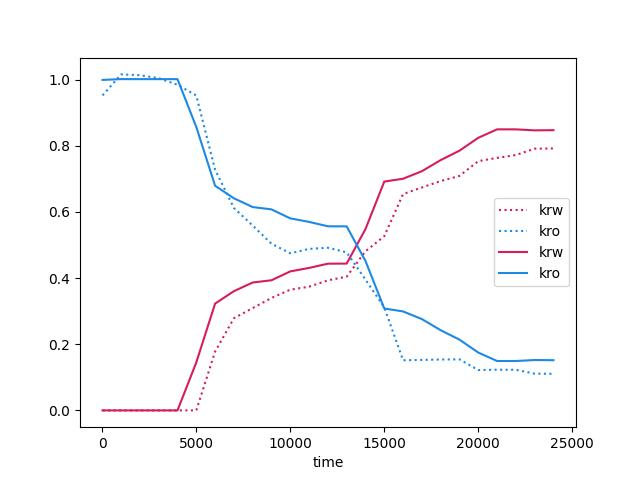
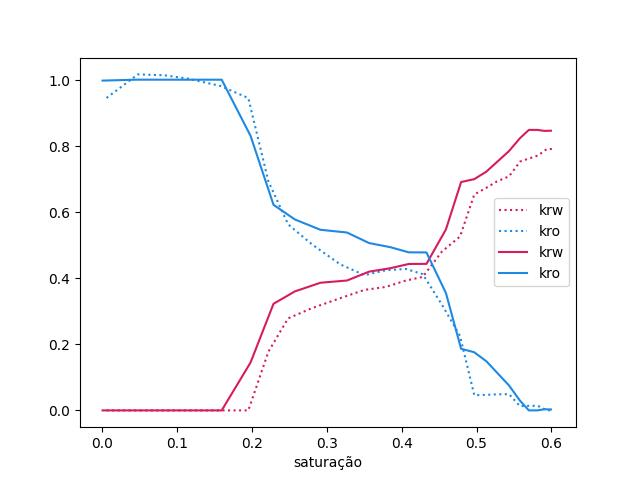
delete examples folder

diff --git a/cases/5x5/mlp/eval_plot.py b/cases/5x5/mlp/eval_plot.py
@@ -76,42 +76,59 @@ curves_fem  = get_curves(u_fem       , s_fem       , vertices, map_elements_vert
 #curves = out_flow_ratio_w, out_flow_ratio_o, krw, kro, in_flow_ratio, sat_curve
 colors = ['#D81B60', '#1E88E5', '#FFC107', '#004D40']
 
-plt.figure()
-sns.lineplot(x= t_coords*tmax, y= curves_data[5], color=colors[0], linestyle=':', label="saturation", )
-sns.lineplot(x= t_coords*tmax, y= curves_fem[5], color=colors[0], linestyle='-', label="saturation", )
-plt.legend(loc="best")
-plt.xlabel("time")
-plt.savefig('saturation.jpg', format='jpg')
+# plt.figure()
+# sns.lineplot(x= t_coords*tmax, y= curves_data[5], color=colors[0], linestyle=':', label="saturation", )
+# sns.lineplot(x= t_coords*tmax, y= curves_fem[5], color=colors[0], linestyle='-', label="saturation", )
+# plt.legend(loc="best")
+# plt.xlabel("time")
+# plt.savefig('saturation.jpg', format='jpg')
+
+# plt.figure()
+# sns.lineplot(x= t_coords*tmax, y= curves_data[0], color=colors[1], linestyle=':', label="Vw_out(t)", )
+# sns.lineplot(x= t_coords*tmax, y= curves_data[1], color=colors[2], linestyle=':', label="Vo_out(t)", )
+# sns.lineplot(x= t_coords*tmax, y= curves_data[4], color=colors[3], linestyle=':', label="Vw_in(t)", )
+
+# # sns.lineplot(x= t_coords*tmax, y= curves_pinn[5], color=colors[0], linestyle='--', label="saturation", )
+# # sns.lineplot(x= t_coords*tmax, y= curves_pinn[0], color=colors[1], linestyle='--', label="Vw_out(t)", )
+# # sns.lineplot(x= t_coords*tmax, y= curves_pinn[1], color=colors[2], linestyle='--', label="Vo_out(t)", )
+# # sns.lineplot(x= t_coords*tmax, y= curves_pinn[4], color=colors[3], linestyle='--', label="Vw_in(t)", )
+
+
+# sns.lineplot(x= t_coords*tmax, y= curves_fem[0], color=colors[1], linestyle='-', label="Vw_out(t)", )
+# sns.lineplot(x= t_coords*tmax, y= curves_fem[1], color=colors[2], linestyle='-', label="Vo_out(t)", )
+# sns.lineplot(x= t_coords*tmax, y= curves_fem[4], color=colors[3], linestyle='-', label="Vw_in(t)", )
+
+# plt.legend(loc="best")
+# plt.xlabel("time")
+# plt.savefig('curves.jpg', format='jpg')
+
+# plt.figure()
+# sns.lineplot(x= t_coords*tmax, y= curves_data[2], color=colors[0], linestyle=':', label="krw")
+# sns.lineplot(x= t_coords*tmax, y= curves_data[3], color=colors[1], linestyle=':', label="kro")
+
+# # sns.lineplot(x= t_coords*tmax, y= curves_pinn[2], color=colors[0], linestyle='--', label="krw")
+# # sns.lineplot(x= t_coords*tmax, y= curves_pinn[3], color=colors[1], linestyle='--', label="kro")
+
+# sns.lineplot(x= t_coords*tmax, y= curves_fem[2], color=colors[0], linestyle='-', label="krw")
+# sns.lineplot(x= t_coords*tmax, y= curves_fem[3], color=colors[1], linestyle='-', label="kro")
+
+# plt.legend(loc="best")
+# plt.xlabel("time")
+# plt.savefig('k_curves.jpg', format='jpg')
 
 plt.figure()
-sns.lineplot(x= t_coords*tmax, y= curves_data[0], color=colors[1], linestyle=':', label="Vw_out(t)", )
-sns.lineplot(x= t_coords*tmax, y= curves_data[1], color=colors[2], linestyle=':', label="Vo_out(t)", )
-sns.lineplot(x= t_coords*tmax, y= curves_data[4], color=colors[3], linestyle=':', label="Vw_in(t)", )
 
-# sns.lineplot(x= t_coords*tmax, y= curves_pinn[5], color=colors[0], linestyle='--', label="saturation", )
-# sns.lineplot(x= t_coords*tmax, y= curves_pinn[0], color=colors[1], linestyle='--', label="Vw_out(t)", )
-# sns.lineplot(x= t_coords*tmax, y= curves_pinn[1], color=colors[2], linestyle='--', label="Vo_out(t)", )
-# sns.lineplot(x= t_coords*tmax, y= curves_pinn[4], color=colors[3], linestyle='--', label="Vw_in(t)", )
+def reescale(y):
+    min_y = jnp.min(y)
+    return (y-min_y)/(1-min_y)
+
+sns.lineplot(x= curves_data[5], y= curves_data[2], color=colors[0], linestyle=':', label="krw")
+sns.lineplot(x= curves_data[5], y= reescale(curves_data[3]), color=colors[1], linestyle=':', label="kro")
 
 
-sns.lineplot(x= t_coords*tmax, y= curves_fem[0], color=colors[1], linestyle='-', label="Vw_out(t)", )
-sns.lineplot(x= t_coords*tmax, y= curves_fem[1], color=colors[2], linestyle='-', label="Vo_out(t)", )
-sns.lineplot(x= t_coords*tmax, y= curves_fem[4], color=colors[3], linestyle='-', label="Vw_in(t)", )
+sns.lineplot(x= curves_fem[5], y= curves_fem[2], color=colors[0], linestyle='-', label="krw")
+sns.lineplot(x= curves_fem[5], y= reescale(curves_fem[3]), color=colors[1], linestyle='-', label="kro")
 
 plt.legend(loc="best")
-plt.xlabel("time")
-plt.savefig('curves.jpg', format='jpg')
-
-plt.figure()
-sns.lineplot(x= t_coords*tmax, y= curves_data[2], color=colors[0], linestyle=':', label="krw")
-sns.lineplot(x= t_coords*tmax, y= curves_data[3], color=colors[1], linestyle=':', label="kro")
-
-# sns.lineplot(x= t_coords*tmax, y= curves_pinn[2], color=colors[0], linestyle='--', label="krw")
-# sns.lineplot(x= t_coords*tmax, y= curves_pinn[3], color=colors[1], linestyle='--', label="kro")
-
-sns.lineplot(x= t_coords*tmax, y= curves_fem[2], color=colors[0], linestyle='-', label="krw")
-sns.lineplot(x= t_coords*tmax, y= curves_fem[3], color=colors[1], linestyle='-', label="kro")
-
-plt.legend(loc="best")
-plt.xlabel("time")
+plt.xlabel("saturação")
 plt.savefig('k_curves.jpg', format='jpg')

diff --git a/cases/5x5/delta-mlp/models.py b/cases/5x5/delta-mlp/models.py
@@ -72,22 +72,26 @@ class NavierStokes2DwSat(ForwardIVP):
         p = outputs[2]
         s = outputs[3] # nn.softplus( outputs[3] )
         
-        return u, v, p, s
+        a = outputs[4]
+        b = outputs[5]
+        c = outputs[6]
+        
+        return u, v, p, s, a, b, c
 
     def u_net(self, params, t, X, mu):
-        u, _, _, _ = self.neural_net(params, t, X, mu)
+        u, _, _, _, _, _, _ = self.neural_net(params, t, X, mu)
         return u
 
     def v_net(self, params, t, X, mu):
-        _, v, _, _ = self.neural_net(params, t, X, mu)
+        _, v, _, _, _, _, _ = self.neural_net(params, t, X, mu)
         return v
 
     def p_net(self, params, t, X, mu):
-        _, _, p, _ = self.neural_net(params, t, X, mu)
+        _, _, p, _, _, _, _ = self.neural_net(params, t, X, mu)
         return p
 
     def s_net(self, params, t, X, mu):
-        _, _, _, s = self.neural_net(params, t, X, mu)
+        _, _, _, s, _, _, _ = self.neural_net(params, t, X, mu)
         return s
     
 
@@ -99,12 +103,10 @@ class NavierStokes2DwSat(ForwardIVP):
         
         def denormalize_mustd(u, umean, ustd):
             return u*ustd+umean
-        
-        # Minv = invert(M)
                
-        u1 , v1 , p1, s1 = self.neural_net(params, t, jnp.squeeze(jnp.take(eigenvecs_element, jnp.array([0]), axis=0)) , mu0)
-        u2 , v2 , p2, s2 = self.neural_net(params, t, jnp.squeeze(jnp.take(eigenvecs_element, jnp.array([1]), axis=0)) , mu0)
-        u3 , v3 , p3, s3 = self.neural_net(params, t, jnp.squeeze(jnp.take(eigenvecs_element, jnp.array([2]), axis=0)) , mu0)
+        u1 , v1 , p1, s1, a, b, c = self.neural_net(params, t, jnp.squeeze(jnp.take(eigenvecs_element, jnp.array([0]), axis=0)) , mu0)
+        u2 , v2 , p2, s2, _, _, _ = self.neural_net(params, t, jnp.squeeze(jnp.take(eigenvecs_element, jnp.array([1]), axis=0)) , mu0)
+        u3 , v3 , p3, s3, _, _, _ = self.neural_net(params, t, jnp.squeeze(jnp.take(eigenvecs_element, jnp.array([2]), axis=0)) , mu0)
     
         u1 = denormalize_mustd(u1, u_mean, u_std)
         v1 = denormalize_mustd(v1, v_mean, v_std)
@@ -154,26 +156,24 @@ class NavierStokes2DwSat(ForwardIVP):
         v_xx = Minv @ A @ v_e
         s_xx = Minv @ A @ s_e
 
-        u_yy = u_xx[2][0] *(self.L_max**2) ; u_xy = u_xx[1][0] *(self.L_max**2) ; u_xx = u_xx[0][0] *(self.L_max**2) 
-        v_yy = v_xx[2][0] *(self.L_max**2) 
-        # v_xy = v_xx[1][0] *(self.L_max**2) ; 
-        v_xx = v_xx[0][0] *(self.L_max**2) 
+        u_yy = u_xx[2][0] *(self.L_max**2) ; u_xx = u_xx[0][0] *(self.L_max**2) 
+        v_yy = v_xx[2][0] *(self.L_max**2) ; v_xx = v_xx[0][0] *(self.L_max**2) 
         # s_yy = s_xx[2][0] *(self.L_max**2) ; s_xx = s_xx[0][0] *(self.L_max**2) 
 
         Re = rho0*self.U_max*(self.L_max)/mu1 
         mu = (1-s)*mu1 + s*mu0
-        mu_ratio = mu/mu1
-        # mu_s = mu0-mu1
-        # mu_x = mu_s * s_x
-        # mu_y = mu_s * s_y
+        # mu_ratio = mu/mu1
+        mu_s = mu0-mu1
+        mu_x = mu_s * s_x
+        mu_y = mu_s * s_y
                 
         # PDE residual
         # ru = u_t + u * u_x + v * u_y + (p_x - mu_ratio*(u_xx + u_yy)) / Re #  
         # rv = v_t + u * v_x + v * v_y + (p_y - mu_ratio*(v_xx + v_yy)) / Re #
-        ru = (p_x - mu_ratio*(u_xx + u_yy)) / Re #  
-        rv = (p_y - mu_ratio*(v_xx + v_yy)) / Re #
-        # ru = (-p_x + 2*mu_x/mu1*u_x + 2*mu/mu1*u_xx + mu_y/mu1*(u_y+v_x) + mu/mu1*(u_yy+v_xy)) / Re
-        # rv = (-p_y + 2*mu_y/mu1*v_y + 2*mu/mu1*v_yy + mu_x/mu1*(u_y+v_x) + mu/mu1*(u_xy+v_yy)) / Re
+        # ru = (p_x - (a*mu_ratio+b*mu_x/mu1+c*mu_y/mu1)*(u_xx + u_yy)) / Re #  
+        # rv = (p_y - mu_ratio*(v_xx + v_yy)) / Re #
+        ru = (-p_x + 2*a*mu_x/mu1*u_x + b*mu_y/mu1*(u_y+v_x) + c*mu/mu1*(u_yy+u_xx)) / Re
+        rv = (-p_y + 2*a*mu_y/mu1*v_y + b*mu_x/mu1*(u_y+v_x) + c*mu/mu1*(v_xx+v_yy)) / Re
         rc = u_x + v_y
         rs = s_t + u * s_x + v * s_y # - 0*beta*10**(-4)*(s_xx + s_yy)
         

diff --git a/cases/5x5/delta-don/models.py b/cases/5x5/delta-don/models.py
@@ -70,23 +70,27 @@ class NavierStokes2DwSat(ForwardIVP):
         v = outputs[1]
         p = outputs[2]
         s = outputs[3] # nn.softplus( outputs[3] )
-
-        return u, v, p, s
+        
+        a = outputs[4]
+        b = outputs[5]
+        c = outputs[6]
+        
+        return u, v, p, s, a, b, c
 
     def u_net(self, params, t, X, mu):
-        u, _, _, _ = self.neural_net(params, t, X, mu)
+        u, _, _, _, _, _, _ = self.neural_net(params, t, X, mu)
         return u
 
     def v_net(self, params, t, X, mu):
-        _, v, _, _ = self.neural_net(params, t, X, mu)
+        _, v, _, _, _, _, _ = self.neural_net(params, t, X, mu)
         return v
 
     def p_net(self, params, t, X, mu):
-        _, _, p, _ = self.neural_net(params, t, X, mu)
+        _, _, p, _, _, _, _ = self.neural_net(params, t, X, mu)
         return p
 
     def s_net(self, params, t, X, mu):
-        _, _, _, s = self.neural_net(params, t, X, mu)
+        _, _, _, s, _, _, _ = self.neural_net(params, t, X, mu)
         return s
     
 
@@ -96,9 +100,9 @@ class NavierStokes2DwSat(ForwardIVP):
         
         # Minv = invert(M)
                
-        u1 , v1 , p1, s1 = self.neural_net(params, t, jnp.squeeze(jnp.take(eigenvecs_element, jnp.array([0]), axis=0)) , mu0)
-        u2 , v2 , p2, s2 = self.neural_net(params, t, jnp.squeeze(jnp.take(eigenvecs_element, jnp.array([1]), axis=0)) , mu0)
-        u3 , v3 , p3, s3 = self.neural_net(params, t, jnp.squeeze(jnp.take(eigenvecs_element, jnp.array([2]), axis=0)) , mu0)
+        u1 , v1 , p1, s1, a, b, c = self.neural_net(params, t, jnp.squeeze(jnp.take(eigenvecs_element, jnp.array([0]), axis=0)) , mu0)
+        u2 , v2 , p2, s2, _, _, _ = self.neural_net(params, t, jnp.squeeze(jnp.take(eigenvecs_element, jnp.array([1]), axis=0)) , mu0)
+        u3 , v3 , p3, s3, _, _, _ = self.neural_net(params, t, jnp.squeeze(jnp.take(eigenvecs_element, jnp.array([2]), axis=0)) , mu0)
         
         u_e = jnp.array([u1, u2, u3])[:, jnp.newaxis]
         v_e = jnp.array([v1, v2, v3])[:, jnp.newaxis]
@@ -147,13 +151,22 @@ class NavierStokes2DwSat(ForwardIVP):
 
         Re = rho0*self.U_max*(self.L_max)/mu1 
         mu = (1-s)*mu1 + s*mu0
-        mu_ratio = mu/mu1
+        # mu_ratio = mu/mu1
+        mu_s = mu0-mu1
+        mu_x = mu_s * s_x
+        mu_y = mu_s * s_y
                 
-        # PDE residual
-        ru = (p_x - mu_ratio*(u_xx + u_yy)) / Re #  
-        rv = (p_y - mu_ratio*(v_xx + v_yy)) / Re #
+        # # PDE residual
+        # ru = (p_x - mu_ratio*(u_xx + u_yy)) / Re #  
+        # rv = (p_y - mu_ratio*(v_xx + v_yy)) / Re #
+        # rc = u_x + v_y
+        # rs = s_t + u * s_x + v * s_y  
+        
+        # return ru, rv, rc, rs
+        ru = (-p_x + 2*a*mu_x/mu1*u_x + b*mu_y/mu1*(u_y+v_x) + c*mu/mu1*(u_yy+u_xx)) / Re
+        rv = (-p_y + 2*a*mu_y/mu1*v_y + b*mu_x/mu1*(u_y+v_x) + c*mu/mu1*(v_xx+v_yy)) / Re
         rc = u_x + v_y
-        rs = s_t + u * s_x + v * s_y  
+        rs = s_t + u * s_x + v * s_y
         
         return ru, rv, rc, rs
 

diff --git a/jaxpi/archs.py b/jaxpi/archs.py
@@ -584,6 +584,10 @@ class DeepONet3wD(nn.Module):
         
         # x = jnp.concatenate([x, u1])
         # u1=u2    
+         
+        alpha = jnp.ones(x.shape)
+        alpha = Mlp(num_layers=2, hidden_dim=5, out_dim=3)(alpha)
+        
         u1 = jnp.concatenate([u1, u2])
         
         u1 = ModifiedMlp(#MlpBlock(
@@ -634,7 +638,7 @@ class DeepONet3wD(nn.Module):
         y_s = nn.sigmoid(Dense(features=int(self.hidden_dim/self.out_dim), reparam=self.reparam)(y_s))
         y_s = Dense(features=1, reparam=self.reparam)(y_s)
         
-        y = jnp.concatenate( [y_u, y_v, y_p, y_s], axis=-1 )
+        y = jnp.concatenate( [y_u, y_v, y_p, y_s, alpha], axis=-1 )
         return y
     
  
@@ -815,6 +819,9 @@ class MLP3wD_(nn.Module):
 
     @nn.compact
     def __call__(self, u1, u2, x):
+        
+        alpha = jnp.ones(x.shape)
+        alpha = Mlp(num_layers=2, hidden_dim=5, out_dim=3)(alpha)
  
         u1 = jnp.concatenate([u1, u2, x])
         
@@ -843,7 +850,7 @@ class MLP3wD_(nn.Module):
         y_s = nn.sigmoid(Dense(features=int(self.hidden_dim/self.out_dim), reparam=self.reparam)(y_s))
         y_s = Dense(features=1, reparam=self.reparam)(y_s)
         
-        y = jnp.concatenate( [y_u, y_v, y_p, y_s], axis=-1 )
+        y = jnp.concatenate( [y_u, y_v, y_p, y_s, alpha], axis=-1 )
         return y
 
 

diff --git a/cases/5x5/delta-don/configs/default.py b/cases/5x5/delta-don/configs/default.py
@@ -8,7 +8,7 @@ def get_config():
     config = ml_collections.ConfigDict()
 
     config.mode = "train"
-    # config.mode = "eval" 
+    config.mode = "eval" 
     # ver o coeficiente do causal depois
     # Weights & Biases
     config.wandb = wandb = ml_collections.ConfigDict()
@@ -26,7 +26,7 @@ def get_config():
     arch.num_trunk_layers = 5 # mu 2
     arch.num_branch_layers = 5 # t 6
     # arch.num_branch_layers2 = 7 # xy v(xy)
-    arch.hidden_dim = 100
+    arch.hidden_dim = 200
     arch.out_dim = 4
     arch.activation = "tanh"  # gelu works better than tanh for this problem
     arch.periodicity = False
@@ -48,7 +48,7 @@ def get_config():
 
     # Training
     config.training = training = ml_collections.ConfigDict()
-    training.max_steps = .05*10**6 
+    training.max_steps = 1*10**6 
     training.fine_tune = True
     training.num_time_windows = 1
 

diff --git a/cases/5x5/don/configs/default.py b/cases/5x5/don/configs/default.py
@@ -26,7 +26,7 @@ def get_config():
     arch.num_trunk_layers = 5 # mu 2
     arch.num_branch_layers = 5 # t 6
     # arch.num_branch_layers2 = 7 # xy v(xy)
-    arch.hidden_dim = 100
+    arch.hidden_dim = 200
     arch.out_dim = 4
     arch.activation = "tanh"  # gelu works better than tanh for this problem
     arch.periodicity = False
@@ -48,7 +48,7 @@ def get_config():
 
     # Training
     config.training = training = ml_collections.ConfigDict()
-    training.max_steps = .05*10**6 
+    training.max_steps = 1*10**6 
     training.fine_tune = True
     training.num_time_windows = 1
 

diff --git a/cases/5x5/mlp/eval3.py b/cases/5x5/mlp/eval3.py
@@ -51,7 +51,7 @@ def evaluate(config: ml_collections.ConfigDict, workdir: str):
     U_max = dp*L_max/mu1
 
     # mu_list = [.0025, .0033333333333333335, .005, .01, .05, .0625, .075, .0875, .1]
-    mu = .0875
+    mu = .0033333333333333335
     ind_mu = jnp.where(mu_list==mu)[0]
     
     t1 = 1 # it is better to change the time in the t_coords array. There it is possible to select the desired percentages of total time solved

diff --git a/cases/5x5/delta-mlp/eval3.py b/cases/5x5/delta-mlp/eval3.py
@@ -51,7 +51,7 @@ def evaluate(config: ml_collections.ConfigDict, workdir: str):
     U_max = dp*L_max/mu1
 
     # mu_list = [.0025, .0033333333333333335, .005, .01, .05, .0625, .075, .0875, .1]
-    mu = .01
+    mu = .0033333333333333335
     ind_mu = jnp.where(mu_list==mu)[0]
     
     t1 = 1 # it is better to change the time in the t_coords array. There it is possible to select the desired percentages of total time solved

diff --git a/cases/5x5/delta-don/eval3.py b/cases/5x5/delta-don/eval3.py
@@ -49,7 +49,7 @@ def evaluate(config: ml_collections.ConfigDict, workdir: str):
     U_max = dp*L_max/mu1
 
     # mu_list = [.0025, .0033333333333333335, .005, .01, .05, .0625, .075, .0875, .1]
-    mu = .1
+    mu = .0033333333333333335
     ind_mu = jnp.where(mu_list==mu)[0]
     
     t1 = 1 # it is better to change the time in the t_coords array. There it is possible to select the desired percentages of total time solved

diff --git a/cases/5x5/don/eval3.py b/cases/5x5/don/eval3.py
@@ -49,7 +49,7 @@ def evaluate(config: ml_collections.ConfigDict, workdir: str):
     U_max = dp*L_max/mu1
 
     # mu_list = [.0025, .0033333333333333335, .005, .01, .05, .0625, .075, .0875, .1]
-    mu = .1
+    mu = .0033333333333333335
     ind_mu = jnp.where(mu_list==mu)[0]
     
     t1 = 1 # it is better to change the time in the t_coords array. There it is possible to select the desired percentages of total time solved

diff --git a/cases/5x5/mlp/configs/default.py b/cases/5x5/mlp/configs/default.py
@@ -10,7 +10,7 @@ def get_config():
     config.mode = "train"
     config.mode = "eval" 
     
-    # config.mode = "evalcurves" 
+    config.mode = "evalcurves" 
 
     # Weights & Biases
     config.wandb = wandb = ml_collections.ConfigDict()
